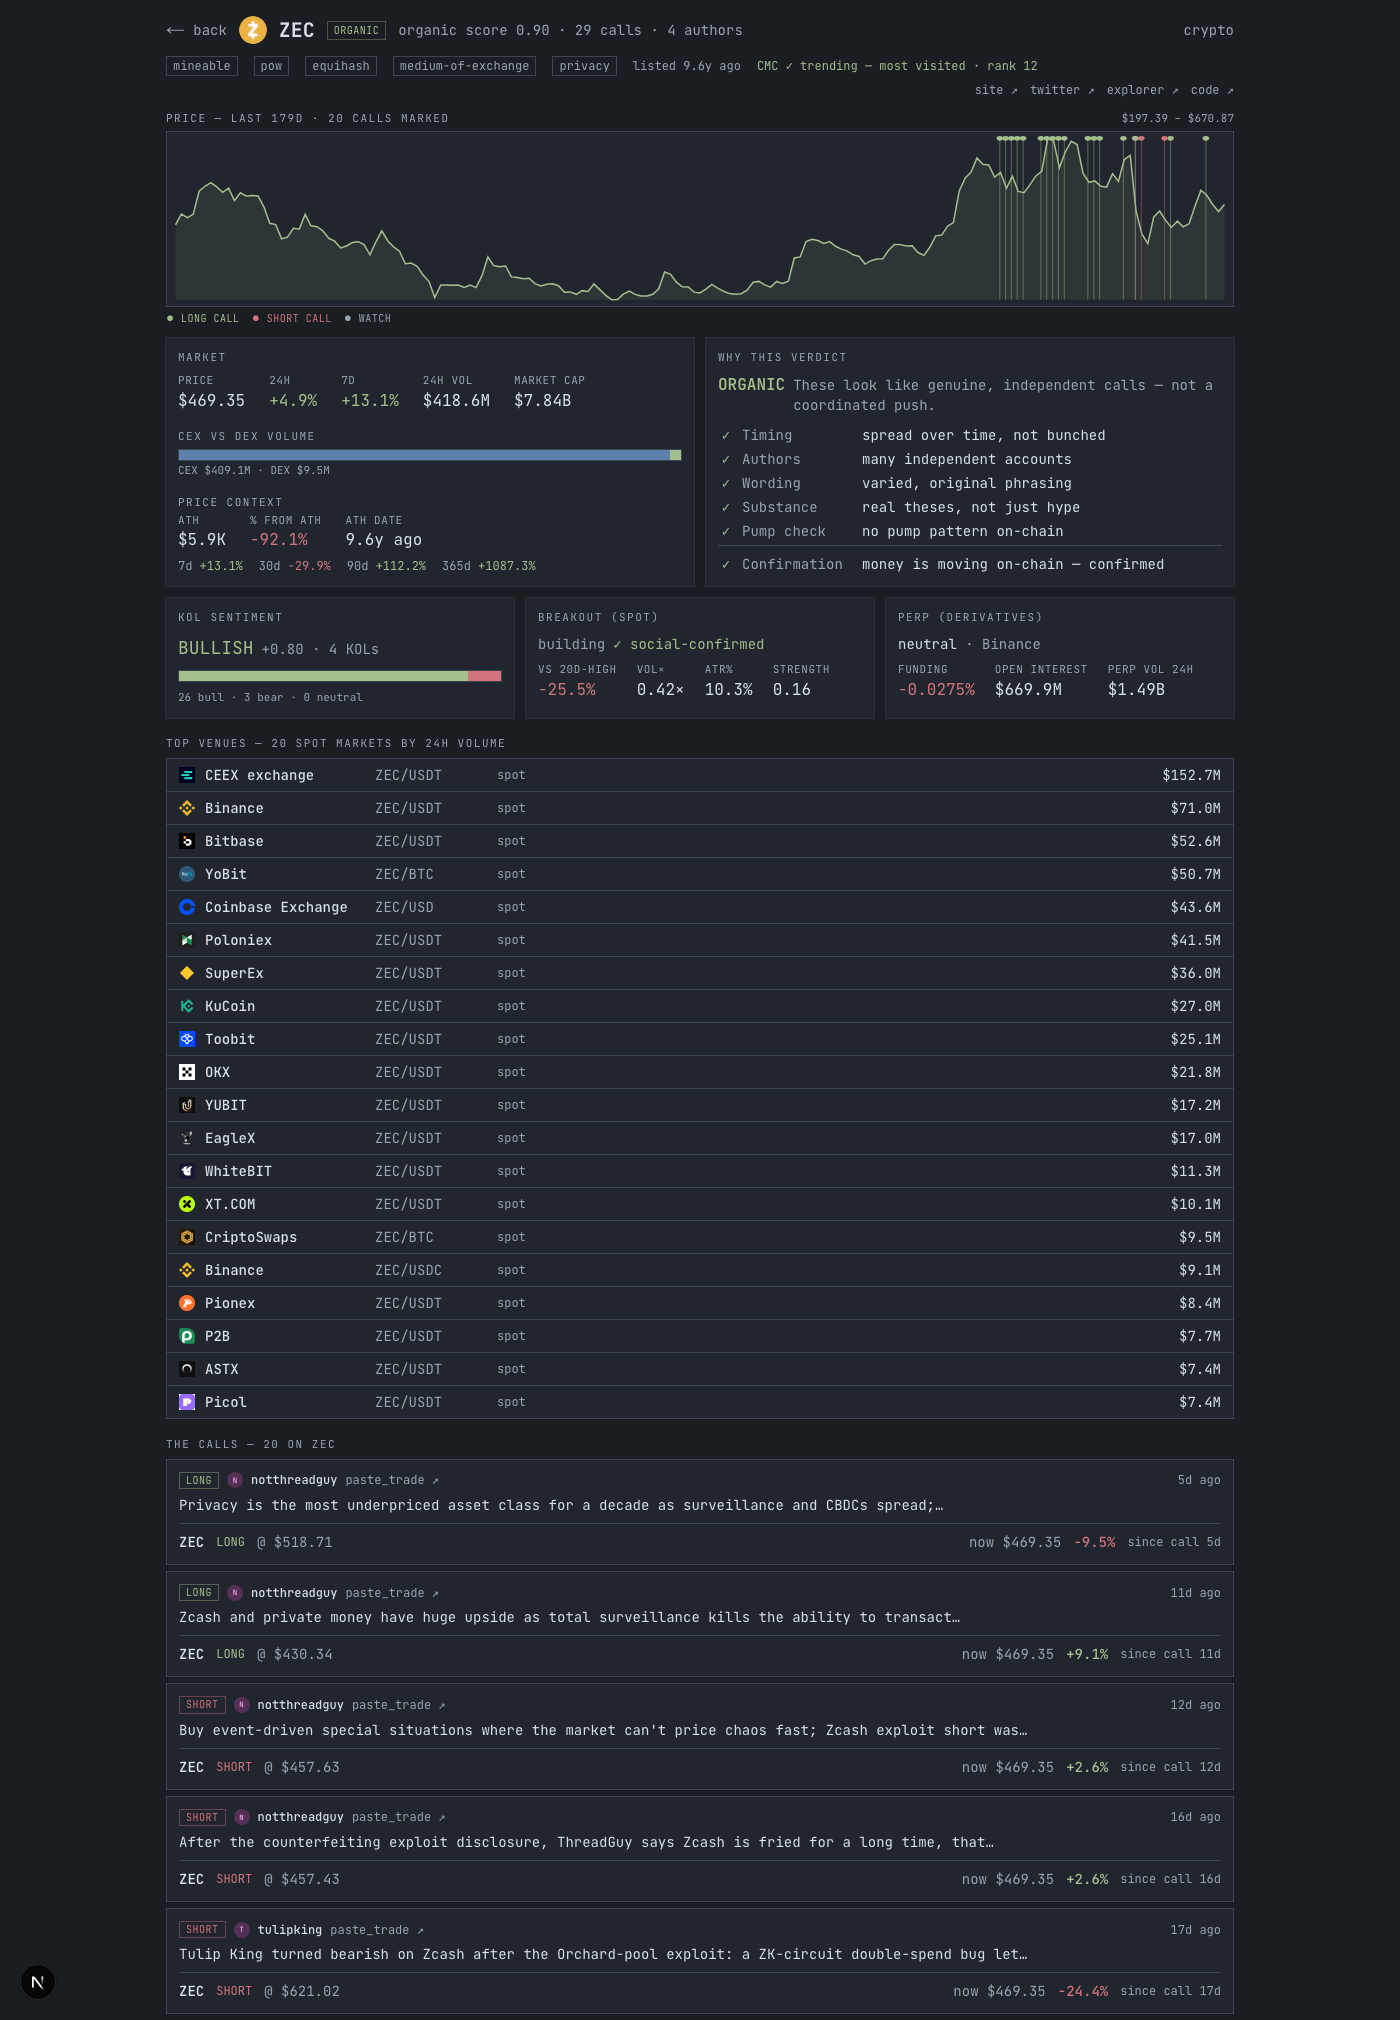
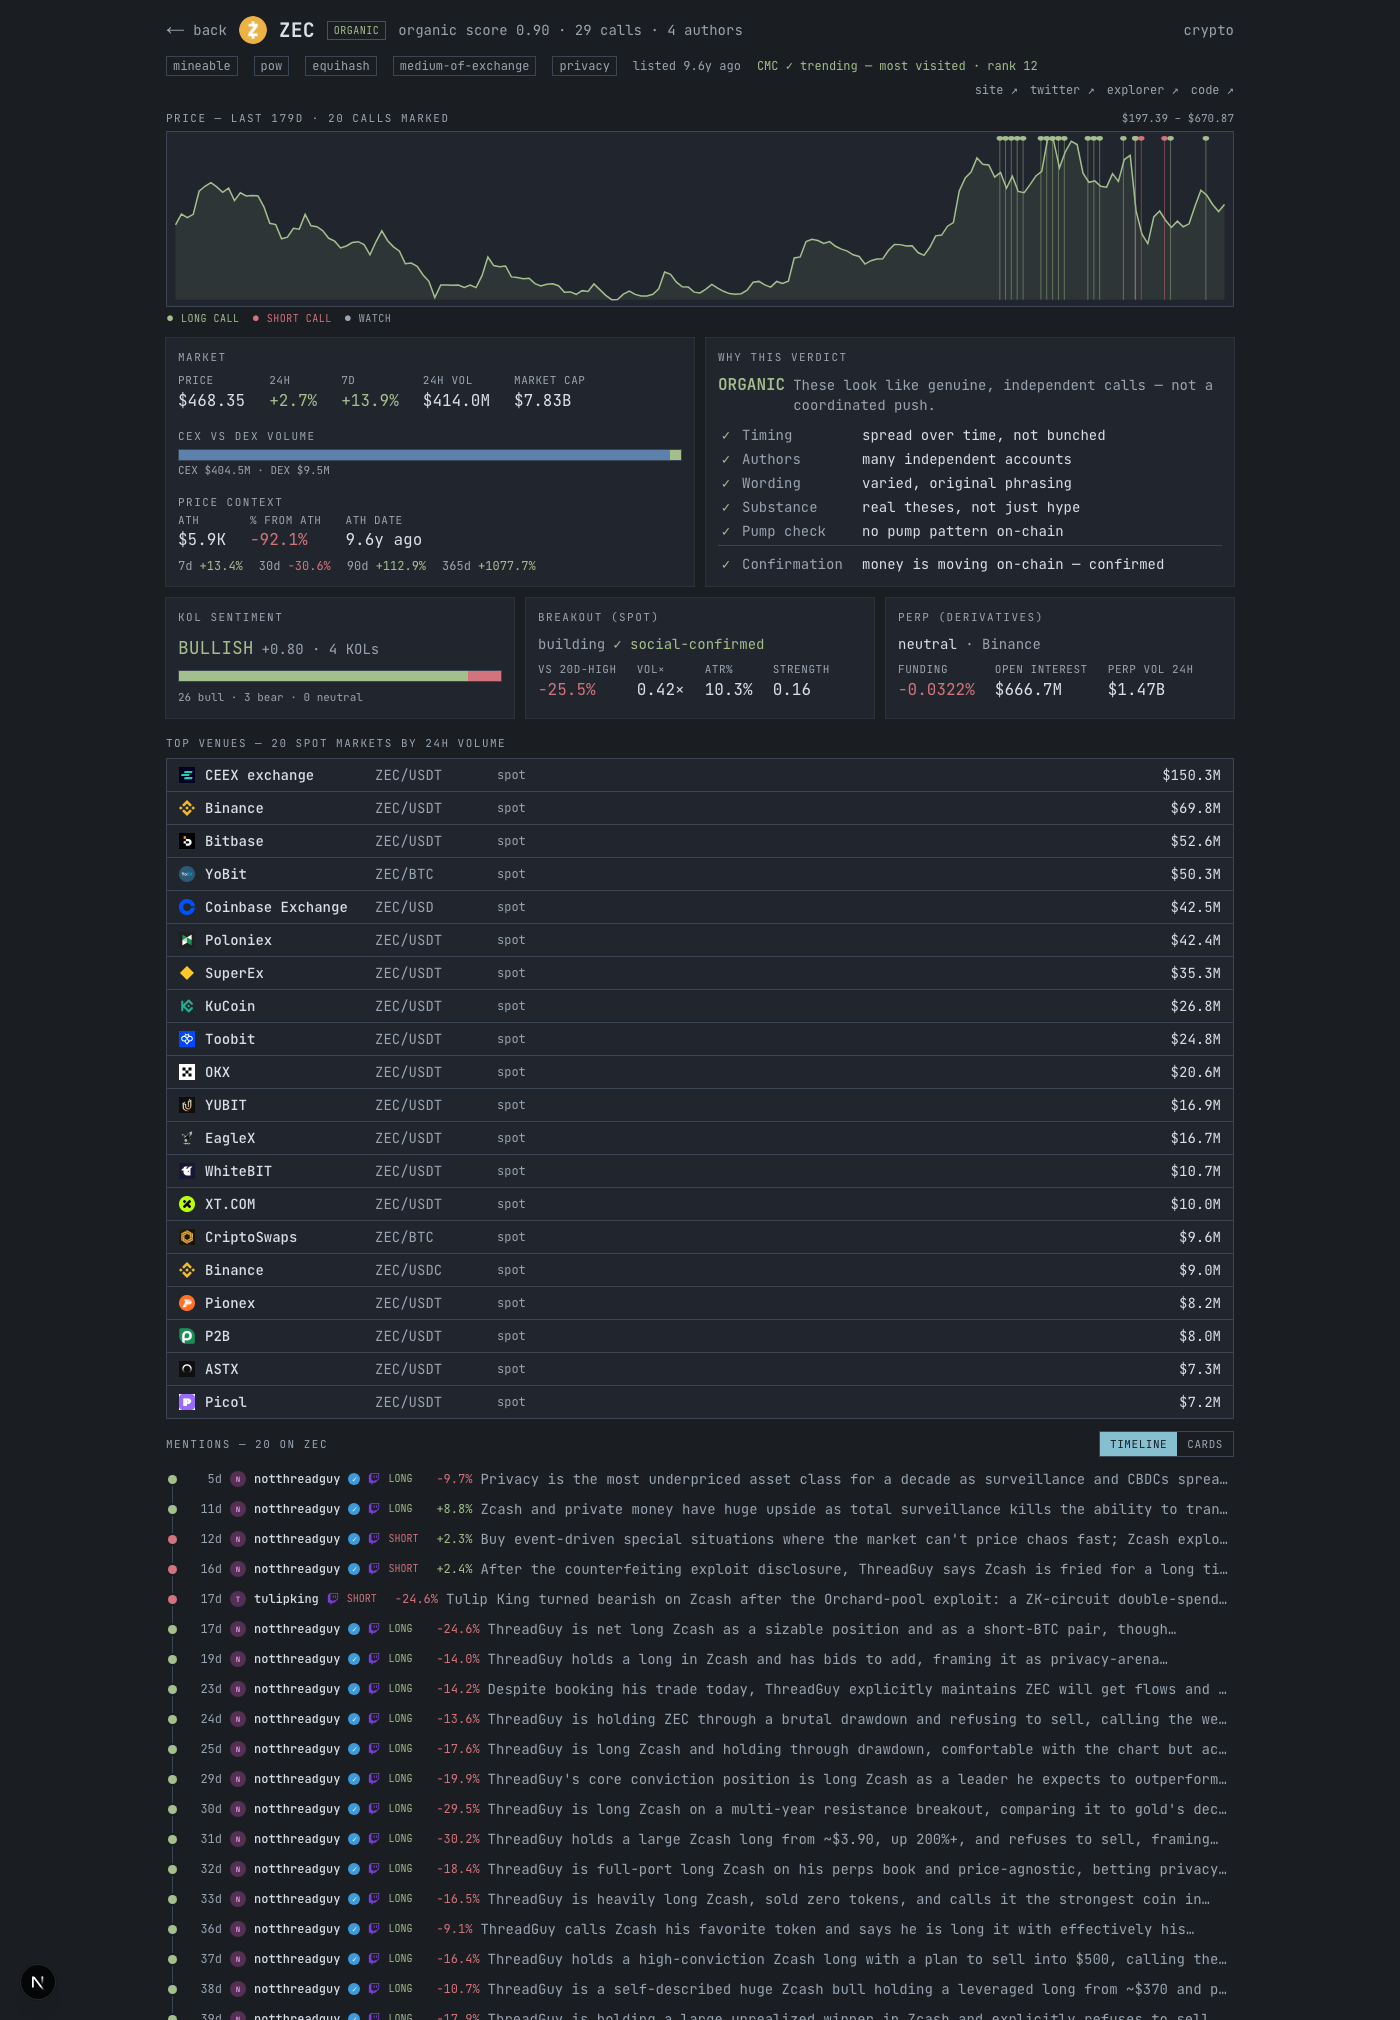
docs: real KOL pfps/verified/platform + asset mentions timeline; refreshed screenshots

Changed region(s): [[0.1229, 0.6861, 0.8907, 1.0]]

diff --git a/web/README.md b/web/README.md
@@ -32,8 +32,9 @@ the call feed works regardless.
 - **Social-trades feed** — 4 views via the selector: `TIMELINE` (compact chronological KOL timeline —
   stance dots on a time axis, avatar · handle · LONG/SHORT · asset · since-call %), `CALLS` (cards),
   `ASSETS` (table with price / 24h / CEX vol / DEX vol), `GROUPED` (calls per asset).
-- Real **asset logos** (CMC) on chips/feed/tables, **exchange logos** on venue tables, and KOL **avatars**
-  throughout — verbose labels trimmed to icons.
+- Real **asset logos** (CMC) on chips/feed/tables, **exchange logos** on venue tables, and **real KOL
+  profile photos** (via unavatar — Twitch/X by show platform) with a **verified ✓** badge and a **platform
+  icon** (Twitch / YouTube / X) per call; monogram fallback. Verbose labels trimmed to icons.
 - **Trade Ideas** — the confirmed subset with a gate scoreboard (heating / organic / confirmed / regime).
 
 ### Setups (`/setups`)
@@ -55,7 +56,8 @@ Logo, tags, listing age + **NEW** flag, provenance links; the **CMC-attention** 
 trending in + rank); a **price chart** (daily, with call markers colored by stance); price, % changes,
 **CEX vs DEX volume**, market cap; **price context** (ATH, % from ATH, ROI ladder); **decision signals**
 (KOL sentiment gauge · spot breakout · perp funding/OI); **top venues**; the classifier verdict + reasons +
-feature bars + on-chain confirmation; and the call feed rendered
+feature bars + on-chain confirmation; the asset's **mentions** as a compact **timeline** (default) or
+paste.trade-style cards; and the call feed rendered
 **paste.trade-style** — each call a LONG/SHORT thesis card with **entry price + % move since the call**.
 
 Verdict colors: green = organic, amber = mixed, red = coordinated.